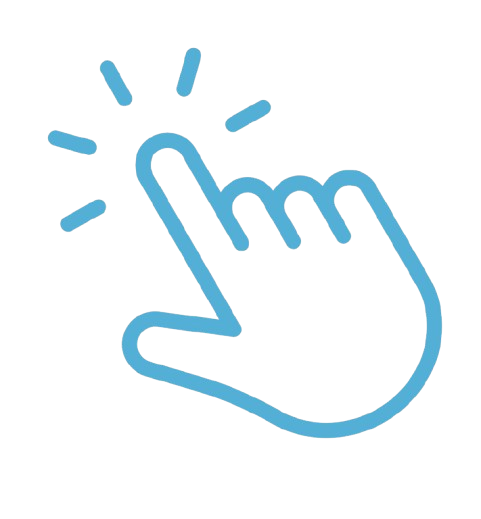
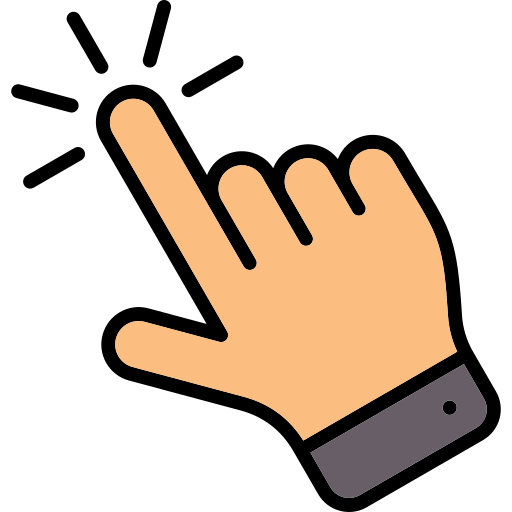
asaff

diff --git a/src/scenes/GameScene.js b/src/scenes/GameScene.js
@@ -119,13 +119,14 @@ export default class GameScene extends Phaser.Scene {
       return;
     }
 
-    const tw = rs(this, 76);
+    const tw = rs(this, 92);
     const tex = this.textures.get(AssetKeys.UI_TAP_HINT).getSourceImage();
     const th = Math.max(1, tex.height * (tw / Math.max(tex.width, 1)));
     this.tapHint.setDisplaySize(tw, th);
 
-    const lift = rs(this, 118);
-    this.tapHint.setPosition(sp.x, sp.y - lift);
+    const shiftRight = rs(this, 100);
+    const lift = rs(this, 138);
+    this.tapHint.setPosition(sp.x + shiftRight, sp.y - lift);
 
     if (!this._tapHintShowing) {
       this._tapHintShowing = true;